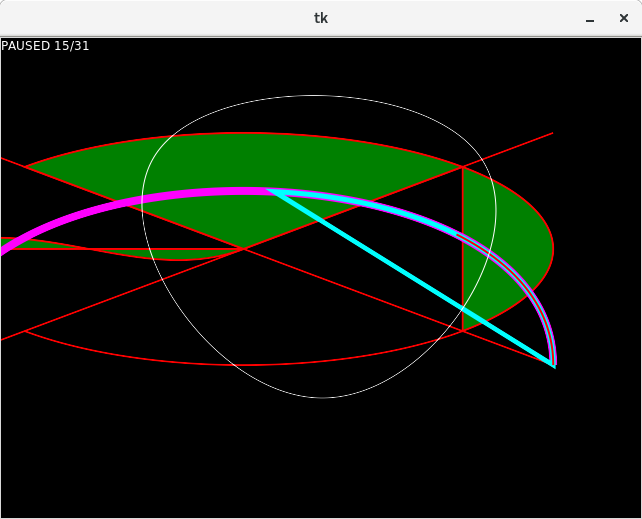
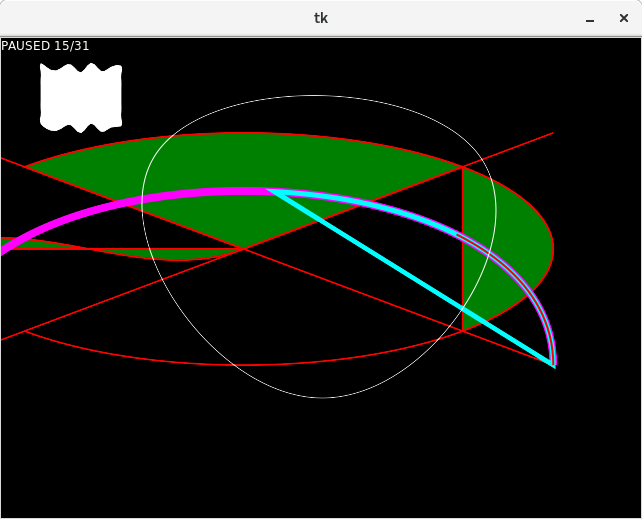
Added basic vector shape implementation

Changed region(s): [[0.0623, 0.1233, 0.1869, 0.2775]]

diff --git a/vshape.py b/vshape.py
@@ -1,0 +1,127 @@
+import aggdraw
+import numpy
+
+import helpers
+import shape
+
+class VShape(shape.Shape):
+    """A shape that consists only of bezier curve paths"""
+    
+    CONFIG = {
+        "dim": 2,
+        "make_closed": False
+    }
+    
+    def __init__(self, **kwargs):
+        shape.Shape.__init__(self, **kwargs)
+        self.create_points()
+    
+    def draw_self(self, canvas, pen, brush):
+        if self.points.shape[0] == 0:
+            return
+        path = "M {} {}".format(*self.points[0, 0:2])
+        # Convert to:
+        # [[H00, H10, A1], [H01, H11, A2], ..., [H0n-1, H1n-1, An]]
+        num_triplets = (len(self.points) - 1)/3
+        triplets = self.points[1:].reshape(num_triplets, 3, self.dim)
+        for triplet in triplets:
+            # Take only the (x,y) coordinates from each point
+            path += " C {} {} {} {} {} {}".format(*triplet[:, 0:2].flatten())
+        if helpers.is_path_closed(self.points):
+            path += " Z"
+        symbol = aggdraw.Symbol(path)
+        canvas.drawing.symbol((0, 0), symbol, pen, brush)
+    
+    def create_points(self):
+        # For sub classes
+        self.points = numpy.zeros((0, self.dim))
+        return self
+    
+    def set_points(self, anchors, handles0, handles1):
+        """Set points array to be:
+        [A0, H00, H10, A1, H01, H11, ..., An]
+        """
+        assert len(handles0) == len(handles1), "Handles must have same length"
+        assert len(anchors) == len(handles0) + 1, "# Points = # Handles + 1"
+        num_points = len(handles0) * 3
+        self.points = numpy.insert(numpy.stack([handles0, handles1,
+            anchors[1:]], axis=1).reshape(num_points, self.dim), 0,
+            anchors[0], axis=0)
+    
+    def get_points(self):
+        """Split back into (anchors, handles0, handles1)"""
+        return [self.points[i::3] for i in range(3)]
+    
+    def set_anchors(self, points, smooth=True):
+        points = numpy.array(points).astype(float)
+        if len(points) == 0:
+            self.points = numpy.zeros((0, self.dim))
+            return
+        if self.make_closed and not helpers.is_path_closed(points):
+            points = numpy.append(points, points[0:1], axis=0)
+        if smooth:
+            # Use smoothing method to calculate handles
+            self.set_points(points, *helpers.get_smooth_handles(points))
+        else:
+            # Handles at 1/3 and 2/3 between each pair of anchor points
+            self.set_points(points, *[helpers.interpolate(points[:-1],
+                points[1:], alpha) for alpha in (1./3,
+                2./3)])
+    
+    def flatten_with_points(self):
+        return filter(lambda v: hasattr(v, "points") and len(v.points) > 0,
+                      self.flatten())
+    
+    def subdivide(self, count=2):
+        """Split each curve into n smaller curves"""
+        if count <= 1:
+            return
+        icount = 1. / count
+        for obj in self.flatten_with_points():
+            newpoints = numpy.array([obj.points[0]])
+            for i in range(self.count_anchors()):
+                j = 3 * i
+                curve = self.points[j:j + 4]
+                for k in range(count):
+                    newpoints = numpy.append(newpoints, helpers.split_bezier(
+                        curve, k * icount, (k + 1) * icount)[1:], axis=0)
+            obj.points = newpoints
+        return self
+    
+    def transform(self, t):
+        #TODO
+        return self
+    
+    def transform_nonlinear(self, f, expanded=False, *args, **kwargs):
+        for obj in self.flatten_with_points():
+            anchors, handles0, handles1 = obj.get_points()
+            if expanded:
+                anchors = numpy.apply_along_axis(helpers.expand, 1, anchors,
+                                                 f, **kwargs)
+            else:
+                anchors = numpy.apply_along_axis(f, 1, anchors, *args,
+                                                 **kwargs)
+            obj.set_anchors(anchors, smooth=True)
+        return self
+    
+    def interpolate(self, other, alpha=.5):
+        #TODO
+        return self
+    
+    ## Point Information ##
+    
+    def count_anchors(self):
+        if len(self.points) == 0:
+            return 0
+        return (len(self.points) - 1) / 3 + 1
+    
+    ## Transform Methods ##
+    
+    def shift(self, delta):
+        delta = numpy.array(delta)
+        self.points += delta
+        return self
+    
+    def scale(self, s):
+        self.points *= s
+        return self

diff --git a/test.py b/test.py
@@ -1,12 +1,15 @@
+import math
 import sys
 
 from colour import Color
+import numpy
 
 import canvas
 import camera
 import helpers
 import shapes
 import transform
+import vshapes
 
 def main(render_width=helpers.DEF_WIDTH, render_height=helpers.DEF_HEIGHT,
          render_preview=False, render_file=False,
@@ -33,6 +36,8 @@ def main(render_width=helpers.DEF_WIDTH, render_height=helpers.DEF_HEIGHT,
     s.add(b1, b2, b3)
     p = shapes.Polyline((w / 4, h / 4), (w / 2, 3 * h / 4), (3 * w / 4, h / 4),
                         (w / 4, h / 4), smooth=True, stroke_color="white")
+    rect = vshapes.Rectangle(width=w / 4, height=h / 4, fill_color="white")
+    rect
     parts = 30
     for i in range(0, parts + 1):
         f = 1. * i / parts
@@ -43,7 +48,10 @@ def main(render_width=helpers.DEF_WIDTH, render_height=helpers.DEF_HEIGHT,
                                                             1. * f2))
         p.points[0, :] = p.points[-1, :] = [w / 2 * f2, h / 2 * f2]
         p.update_symbol()
-        c.capture_frame(s, p)
+        rect.create_points().shift((w / 8, h / 8)).subdivide(8)\
+            .transform_nonlinear(lambda x, y: (x, y + 10 * math.sin(x * .5
+            + f * 2 * math.pi)), expanded=True).scale(.5)
+        c.capture_frame(s, p, rect)
     if render_file:
         c.write_to_file(render_filename, show_loop=True)
     if render_preview:

diff --git a/vshapes.py b/vshapes.py
@@ -1,0 +1,13 @@
+import vshape
+
+class Rectangle(vshape.VShape):
+    CONFIG = {
+        "make_closed": True,
+        "width": 1.,
+        "height": 1.
+    }
+    
+    def create_points(self):
+        self.set_anchors([(0, 0), (0, self.height), (self.width, self.height),
+            (self.width, 0)], smooth=False)
+        return self

diff --git a/helpers.py b/helpers.py
@@ -243,3 +243,9 @@ def split_bezier(points, a, b):
         calc_bezier(a_to_1[:i+1], (b-a)/(1.-a))
         for i in range(len(points))
     ])
+
+def interpolate(a, b, t):
+    return (1. - t) * a + t * b
+
+def expand(v, f, **kwargs):
+    return f(*v, **kwargs)
